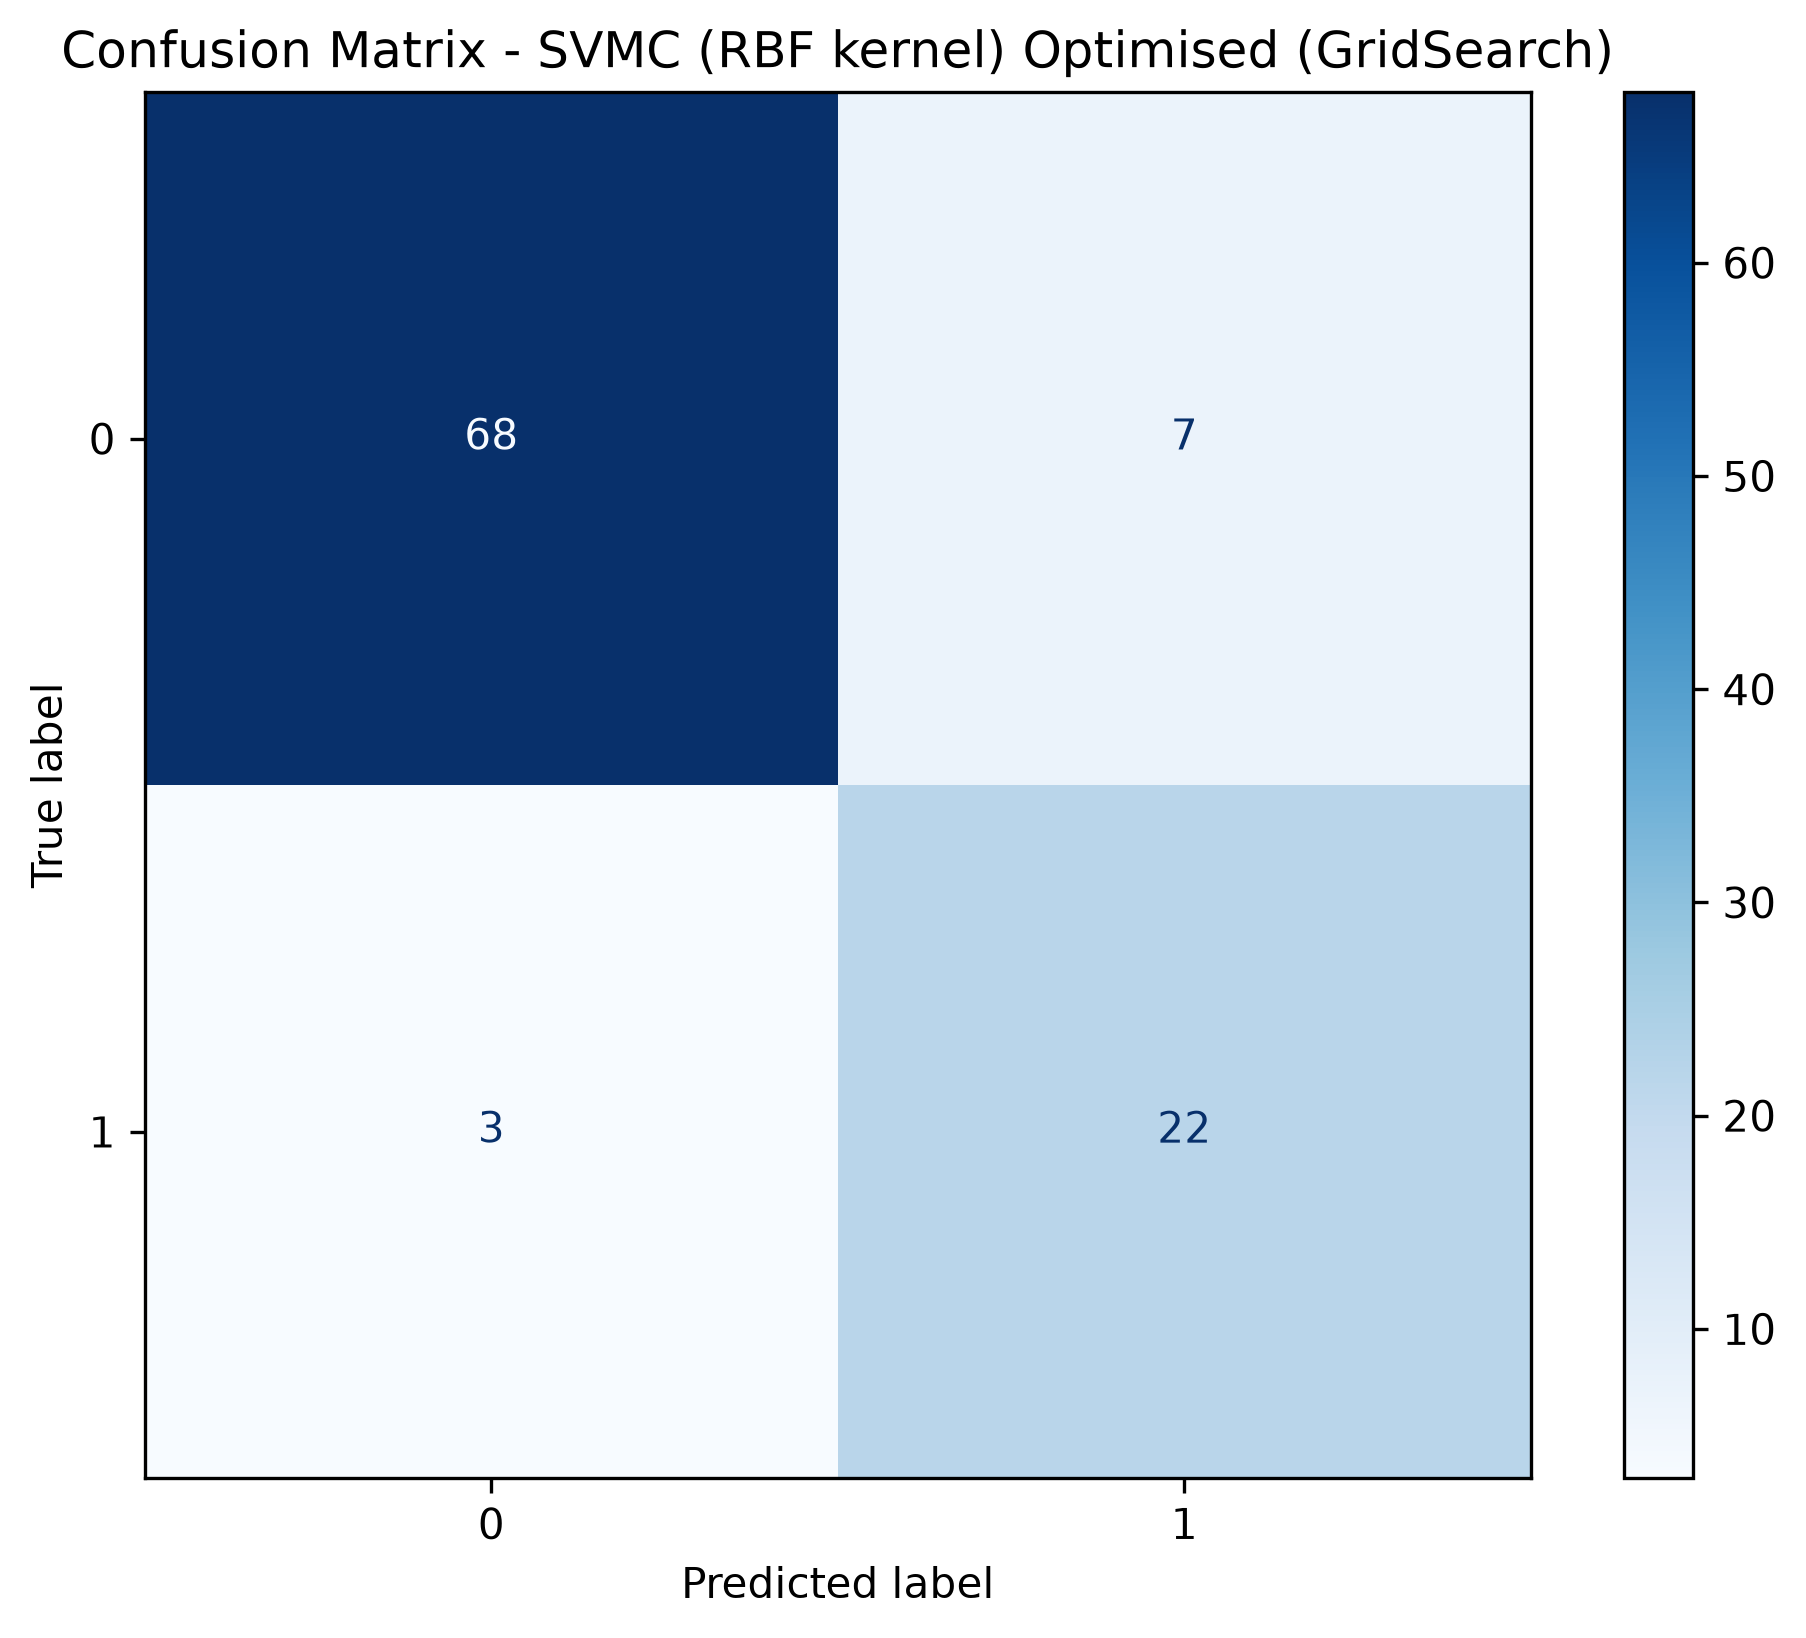
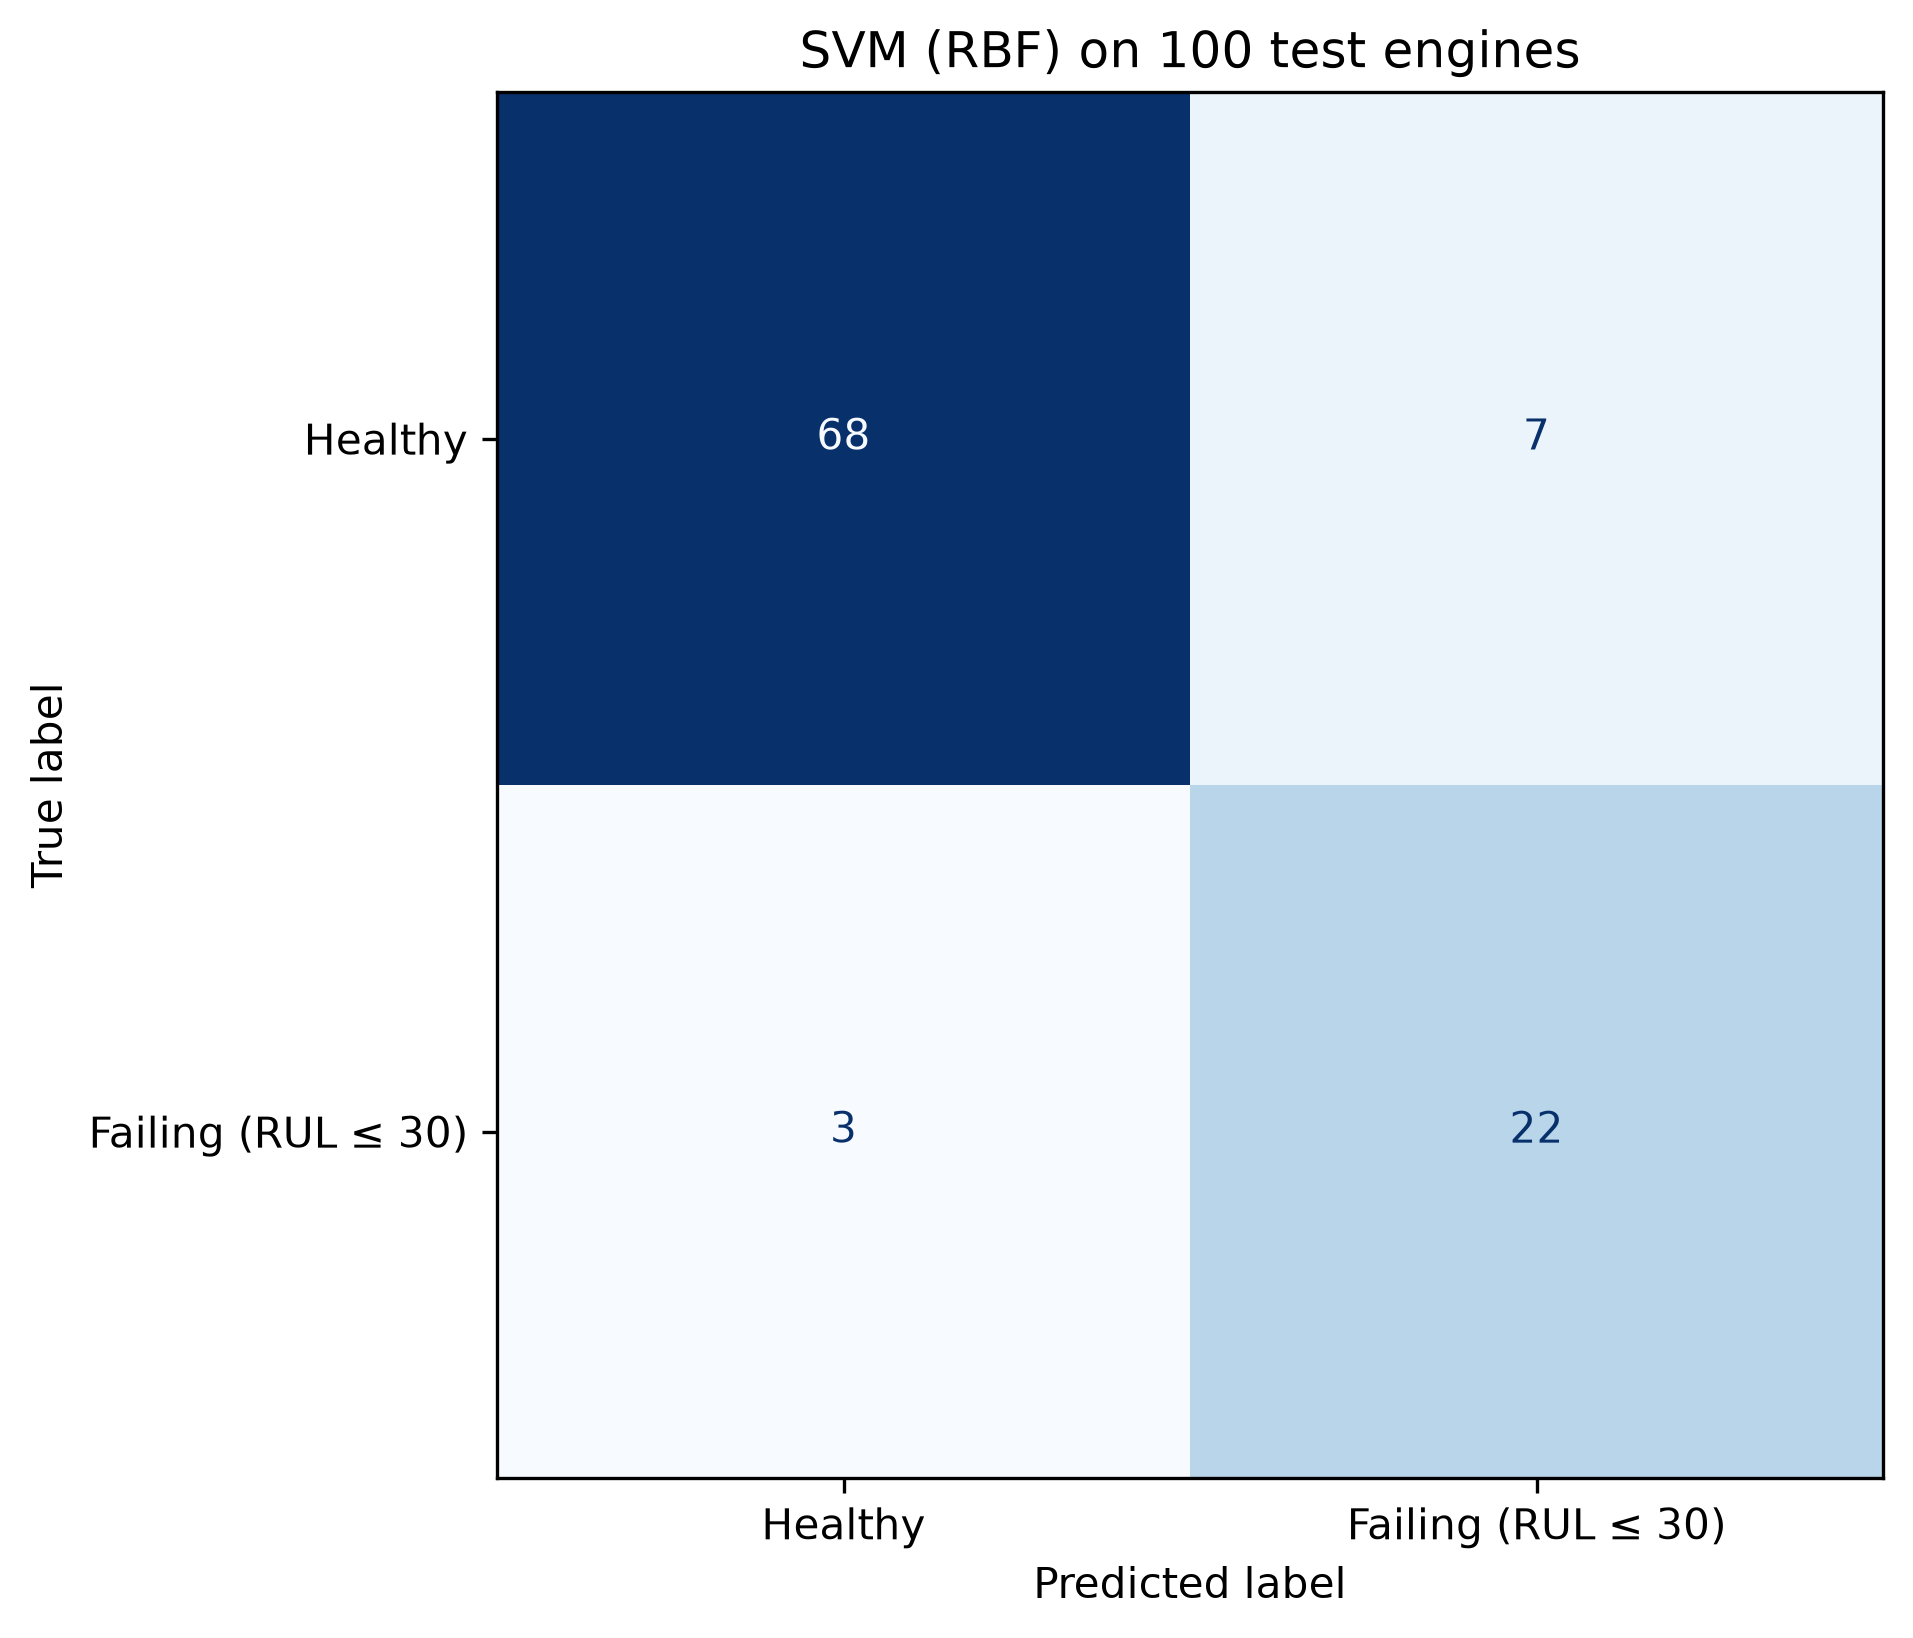
polish figures: labels, legends, file sizes

diff --git a/eda.py b/eda.py
@@ -14,6 +14,7 @@ FIGURES_DIR.mkdir(exist_ok=True)
 
 # --- Feature Selection ---
 SENSOR_COLS = ['s1', 's2', 's3', 's4']
+PLOT_SENSORS = ['s3', 's4']
 
 # Capping RUL prevents the model from learning from "infinite" health states
 RUL_CAP = 125 
@@ -198,16 +199,16 @@ def plot_sensor_degradation_analysis(df):
     - Variance Cone (Mean +/- 2 Std Dev) to show increasing noise (heteroscedasticity).
     - Threshold vertical line.
     """
-    mean_trend = df.groupby('cycle')[SENSOR_COLS].mean()
-    std_trend = df.groupby('cycle')[SENSOR_COLS].std()
+    mean_trend = df.groupby('cycle')[PLOT_SENSORS].mean()
+    std_trend = df.groupby('cycle')[PLOT_SENSORS].std()
     
-    fig, axes = plt.subplots(nrows=len(SENSOR_COLS), ncols=1, figsize=(14, 18), sharex=True)
+    fig, axes = plt.subplots(nrows=len(PLOT_SENSORS), ncols=1, figsize=(14, 9), sharex=True)
     
     # Split data based on hypothesis
     early_life = df[df['cycle'] < FAILURE_THRESHOLD_CYCLE]
     late_life = df[df['cycle'] >= FAILURE_THRESHOLD_CYCLE]
     
-    for i, sensor in enumerate(SENSOR_COLS):
+    for i, sensor in enumerate(PLOT_SENSORS):
         ax = axes[i]
         
         # 1. Plot Healthy Phase
@@ -246,7 +247,7 @@ def plot_sensor_degradation_analysis(df):
         # Legend handling
         handles, labels = ax.get_legend_handles_labels()
         unique_labels = {l: h for h, l in zip(handles, labels)}
-        ax.legend(unique_labels.values(), unique_labels.keys(), loc='upper left', fontsize=10)
+        # ax.legend(unique_labels.values(), unique_labels.keys(), loc='upper left', fontsize=10)
         
         # Axis Scaling (Same logic as raw plot)
         q01 = df[sensor].quantile(0.01)
@@ -254,15 +255,21 @@ def plot_sensor_degradation_analysis(df):
         padding = (q99 - q01) * 0.1 
         if pd.notna(q01) and pd.notna(q99):
             ax.set_ylim(q01 - padding, q99 + padding)
-            
+
+    leg = fig.legend(handles, labels, loc="upper center", ncol=5)
+    for h in leg.legend_handles:
+        h.set_alpha(1)
+
+    
     # Set X-axis ticks
-    max_cycle = int(df['cycle'].max())
+    max_cycle = 300
     axes[-1].set_xticks(np.arange(0, max_cycle + 25, 25))
     axes[-1].set_xlim(0, max_cycle + 5)
     axes[-1].set_xlabel('Time in Engine Cycles')
-    plt.savefig(FIGURES_DIR / "sensor_degradation.png", dpi=300, bbox_inches="tight")
-    plt.tight_layout()
+    # rect leaves the top 8% of the figure free for the legend
+    plt.tight_layout(rect=[0, 0, 1, 0.92])
     plt.subplots_adjust(hspace=0.4)
+    plt.savefig(FIGURES_DIR / "sensor_degradation.png", dpi=100, bbox_inches="tight")
     plt.show()
 
 

diff --git a/gpr_RBF_whitenoise.py b/gpr_RBF_whitenoise.py
@@ -199,7 +199,7 @@ if __name__ == '__main__':
 
     plt.errorbar(y_test_capped, y_pred, 
                  yerr=confidence, 
-                 fmt='o', 
+                 fmt='none', 
                  ecolor='lightgray', 
                  elinewidth=2, 
                  capsize=0, 
@@ -217,8 +217,8 @@ if __name__ == '__main__':
     plt.legend()
     plt.grid(True, linestyle='--', alpha=0.6)
     plt.xlim(0, RUL_CAP + 5)
-    plt.ylim(0, RUL_CAP + 20) # Give space for error bars
-    plt.savefig(FIGURES_DIR / "gpr_actual_vs_predicted.png with 95% Confidence.png", dpi=300, bbox_inches="tight")
+    # plt.ylim(0, RUL_CAP + 60) # Give space for error bars
+    plt.savefig(FIGURES_DIR / "gpr_actual_vs_predicted.png", dpi=300, bbox_inches="tight")
 
     
     # --- 8. Visualization 2: Model Fit vs. Key Features (All 5 Features) ---

diff --git a/SVMC_grid_res_RBF.py b/SVMC_grid_res_RBF.py
@@ -108,11 +108,11 @@ def train_and_evaluate_classifier(model, model_name, X_train_scaled, y_train, X_
     # --- Confusion Matrix Display ---
     print(f"Generating Confusion Matrix for {model_name}...")
     cm = confusion_matrix(y_test, y_pred)
-    disp = ConfusionMatrixDisplay(confusion_matrix=cm, display_labels=['0', '1'])
+    disp = ConfusionMatrixDisplay(confusion_matrix=cm, display_labels=['Healthy', 'Failing (RUL ≤ 30)'])
     
     fig, ax = plt.subplots(figsize=(8, 6))
-    disp.plot(ax=ax, cmap='Blues', values_format='d')
-    ax.set_title(f'Confusion Matrix - {model_name}')
+    disp.plot(ax=ax, cmap='Blues', values_format='d', colorbar=False)
+    ax.set_title("SVM (RBF) on 100 test engines")
     plt.savefig(FIGURES_DIR / "confusion_matrix.png", dpi=300, bbox_inches="tight")
     plt.show()
 
